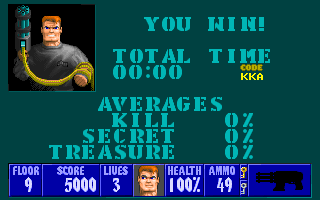
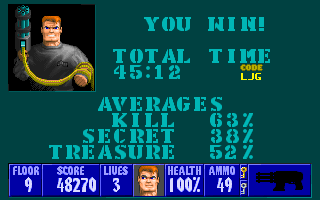
wolfenstein-3d: main - real You Win! totals, lenses, playbook (80 shots)
victory_win now pokes the per-floor tally table at 44C56 (macro E1RATIOS):
45:12, kill 63%, secret 38%, treasure 52%, score 48270. Lens documents index
the 16 new shots (face stage table, difficulty faces, death and restart);
findings: the 00:00 fix, lives kept under tedlevel. Playbook: HANSFIGHT/HF
recipe, RAM 44C56, tools/fightscan.py. Verified 80/80 from an empty cache.

Claude-Session: https://claude.ai/code/session_011YfKeixHREUUGtFaZ5pyP9

diff --git a/games/dos/wolfenstein-3d/tools/fightscan.py b/games/dos/wolfenstein-3d/tools/fightscan.py
@@ -1,0 +1,23 @@
+"""Fight scan: play PREFIX (flat route), then repeat CYCLE tokens N times; log health/ammo/lives/score per cycle
+and save one PNG per cycle (frame k = route `PREFIX,CYCLE*k,!` with CYCLE as a macro). usage: fightscan.py OUTDIR "PREFIX" "CYCLE" N"""
+import sys, os
+sys.path.insert(0, "/home/user/game-hacking/tools")
+import emu as E
+out, prefix, cycle, n = sys.argv[1], sys.argv[2], sys.argv[3], int(sys.argv[4])
+os.makedirs(out, exist_ok=True)
+game = E.Game("dos/wolfenstein-3d")
+emu, rest, full = E.start(game, prefix)
+E.play(emu, game, rest)
+ctoks = E.expand(game, E.split(cycle))
+def rd(a, n=2):
+    return int.from_bytes(bytes(emu.peek(a, n)), "little")
+log = []
+for k in range(n + 1):
+    if k:
+        E.play(emu, game, ctoks)
+    h, am, lv, sc = rd(0x44924), rd(0x44926), rd(0x44922), rd(0x4491A, 4)
+    p = os.path.join(out, "%03d.png" % k)
+    emu.screen_png(p)
+    log.append("%03d health=%d ammo=%d lives=%d score=%d map=%d" % (k, h, am, lv, sc, rd(0x44914)))
+open(os.path.join(out, "log.txt"), "w").write("\n".join(log) + "\n")
+print("\n".join(log))

diff --git a/games/dos/wolfenstein-3d/design/systems.md b/games/dos/wolfenstein-3d/design/systems.md
@@ -27,11 +27,11 @@ matter only within a floor (keys) or until the next pickup (health) (source: gam
 | Player verbs | Use (doors, pushwalls, switch) | Space opens the door ahead, pushes a secret wall, flips the elevator switch | Space | door opens in about 60 frames; pushwall slides 2 tiles in about 256 frames (verified) | 3.4 | `11_door_open`, `21_pushwall`, `elevator` | shown |
 | Player verbs | Weapon select | Number keys pick any weapon already owned | 1-4 | knife, pistol, machine gun, chain gun (verified) | 3.1 | `hud`, `weapon_knife` | shown |
 | Characters and progression | Score and extra lives | Points for kills and treasure; an extra life every 40000 points | none | guard 100, officer 400, mutant 700, Hans Grosse 5000, cross 100 (verified: score on the status bar); extra life at 40000 (RAM) | 3.2 | `15_guard_dead`, `enemy_officer_dies`, `enemy_mutant_dies`, `e1m9_exit`, `treasure_pickup` | shown |
-| Characters and progression | Weapons carried | The best weapon found stays for the rest of the game (until death) | walk over it | start: knife and pistol; machine gun and chain gun found on floors (verified: `22_secret_room`, `23_machine_gun`) | 3.1 | `23_machine_gun` | shown |
+| Characters and progression | Weapons carried | The best weapon found stays for the rest of the game (until death) | walk over it | start: knife and pistol; machine gun and chain gun found on floors (verified: `22_secret_room`, `23_machine_gun`) | 3.1 | `23_machine_gun`, `chaingun_floor`, `chaingun_grin` | shown |
 | Resources and economy | Ammunition | One shared bullet count for pistol, machine gun and chain gun, cap 99 | clips from the floor and from dead guards | start 8; clip from a guard +4 (verified: ammo 0 to 4, `20_clip`); cheat 99 (verified) | 3.1 | `20_clip`, `hud` | shown |
-| Resources and economy | Health | 0-100%; food and first aid restore it, not taken at 100% | walk over items | start 100% (verified); first aid kits left lying at 100% (verified: `22_secret_room`) | 3.3 | `22_secret_room`, `damage_flash` | shown |
+| Resources and economy | Health | 0-100%; food and first aid restore it, not taken at 100% | walk over items | start 100% (verified); first aid kits left lying at 100% (verified: `22_secret_room`) | 3.3 | `22_secret_room`, `damage_flash`, `face_100`, `face_1` | shown |
 | Resources and economy | Treasure | Crosses, chalices, chests and crowns: points and the treasure ratio | walk over | cross 100 (verified); others: source (chalice 500, chest 1000, crown 5000) | 3.2 | `treasure_room`, `treasure_pickup` | shown |
-| Conflict | Hits and damage | Every shot is a roll; damage falls with distance; a hit flashes the screen red | none | guard needed 3-4 pistol shots, the second guard 2 (verified); Hans Grosse died to about 50 chain-gun bullets (verified: ammo 99 to 49) | 3.3 | `17_guard2_hit`, `damage_flash`, `boss_hans_hit` | shown |
+| Conflict | Hits and damage | Every shot is a roll; damage falls with distance; a hit flashes the screen red | none | guard needed 3-4 pistol shots, the second guard 2 (verified); Hans Grosse died to about 50 chain-gun bullets (verified: ammo 99 to 49); Hans at 6+ tiles took B.J. from 100% to 0% in 9 hits of 1-21 points (RAM: 100, 80, 79, 69, 60, 49, 43, 34, 21, 6, 1, 0) | 3.3 | `17_guard2_hit`, `damage_flash`, `boss_hans_hit`, `face_80`, `face_34` | shown |
 | Conflict | Death of an enemy | A killed enemy falls, leaves a body and, for guards and SS, a clip or weapon | none | (verified: `18_guard2_falls`, `20_clip`) | 3.2 | `18_guard2_falls`, `enemy_mutant_dies`, `enemy_officer_dies` | shown |
 | Opponents | Regular enemies | Guard, dog, SS, officer, mutant: stand or patrol until they see or hear the player, then attack | none | 5 kinds (verified: map data) | [content.md](content.md) 3 | `13_hall_guard`, `enemy_dogs`, `enemy_ss`, `enemy_mutant_fire`, `enemy_guard_fires` | shown |
 | Opponents | Alerting | Gunfire is heard through open space; enemies behind closed doors stay unaware | none | a teleported player was ignored until he shot the boss (verified: `boss_otto` route) | 3.3 | `boss_otto`, `enemy_ss` | shown |
@@ -46,10 +46,10 @@ matter only within a floor (keys) or until the next pickup (health) (source: gam
 | Goals and gating | Episode end | After the boss, the exit tile starts the run out of the castle, the "You Win!" screen and the end text | walk | (verified) | 3.5 | `victory_run`, `victory_win`, `episode_end_text`, `episode_end_text_2` | shown |
 | Goals and gating | Floor tally | Bonus for beating par time, plus ratios of kills, secrets and treasure | key to continue | bonus 500 points per second under par (computed: 43000 for 4 s against 1:30); 0 over par (verified) | 3.5 | `tally_floor1` | shown |
 | Chance | Random hits | Hits, damage and enemy shots are rolled; drops are fixed | none | guards fell after 2 to 4 pistol shots (verified) | 3.3 | `14_guard_fire` | shown |
-| Failure and recovery | Death and lives | At 0% health the view flashes red and dissolves; a life is lost and the floor restarts | none | 3 lives at the start (verified) | 3.7 | `damage_flash`, `death_fizzle` | shown |
+| Failure and recovery | Death and lives | At 0% health the view flashes red and dissolves; a life is lost and the floor restarts | none | 3 lives at the start (verified); killed by Hans, floor 9 restarts with pistol, 8 ammo, 100% (verified: `death_restart`) | 3.7 | `damage_flash`, `death_fizzle`, `death_by_hans`, `death_by_hans_red`, `death_restart` | shown |
 | Failure and recovery | Out of lives | No game-over screen: the High Scores table, with name entry when the score qualifies | type a name, Enter | entry at 12650 above the 10000 of the id staff (verified) | 3.7 | `highscore_entry`, `highscore_ryz` | shown |
 | Saving and sessions | Save and load | Save anywhere from the in-game Options menu, 10 named slots | Esc, Save Game, type a name | (verified) | 3.8 | `28_save_slots`, `29_save_name`, `menu_load` | shown |
-| Pacing and difficulty | Skill levels | Four skills decide which enemies appear and how hard they hit | menu | E1M1 has 20 enemies at "Bring 'em on!" (verified: map data) | 3.9 | `menu_difficulty` | shown |
+| Pacing and difficulty | Skill levels | Four skills decide which enemies appear and how hard they hit | menu | E1M1 has 20 enemies at "Bring 'em on!" (verified: map data) | 3.9 | `menu_difficulty`, `menu_difficulty_daddy`, `menu_difficulty_hurt`, `menu_difficulty_death` | shown |
 | Pacing and difficulty | Cheats and debug | M+L+I gives full health, ammo, keys and weapons; the goobers debug keys give god mode, warp, coordinates | M+L+I; Tab+G/W/F | (verified) | 3.6 | `cheat_mli`, `debug_on`, `debug_god`, `debug_warp`, `debug_coords` | shown |
 | Pacing and difficulty | Attract mode | Title, credits, high scores and a recorded demo loop until a key is pressed | any key | demo on floor 38 (E4M8) (verified) | 3.10 | `demo`, `credits_id`, `high_scores` | shown |
 
@@ -73,6 +73,15 @@ Shots hit by chance; the screen flashes red when the player is hit (verified: `d
 fired at it (verified: `boss_otto` and `boss_schabbs` routes) (inferred: the boss had not been told the player's
 area was connected to his).
 
+A real fight without god mode (verified: `face_100` to `death_by_hans`, route macro `HANSFIGHT` + `HF*N`): on
+E1M9 the door to Hans Grosse opened from 1 tile, the player backed 5.6 tiles down the corridor and fired; Hans
+woke, walked out and fired from 6-20 tiles while the player backed away firing bursts. Health went 100, 80,
+79, 69, 60, 49, 43, 34, 21, 6, 1, 0 (RAM, health at 44924): hits of 1 to 21 points at that range, never more,
+and the chain gun at 99 bullets did not bring him down. Opened at point blank (the `boss_hans` route without
+god mode) he killed the player within 60 frames of the door opening (RAM: health 0) (inferred: damage grows
+sharply below 2 tiles). Picking up a chain gun makes B.J. grin on the status bar for a moment (verified:
+`chaingun_grin`) and switches to it (ammo +6: 8 to 14) (verified).
+
 ### 3.4 Doors, locks and secrets
 Doors slide open with Space and close again after about 5 seconds (verified). Gold and silver doors need their
 key (verified: `door_gold` without a key, opened on E1M9 with one). Pushwalls are ordinary-looking walls
@@ -85,6 +94,11 @@ secrets = 40%, 9 of 23 treasure = 39%, `tally_floor1`; integer percentages, roun
 the exit tile behind the boss's gold door starts the episode end: B.J. runs out (`victory_run`), "You Win!"
 with total time and average ratios and a code (`victory_win`), then two pages of end text
 (`episode_end_text`, `episode_end_text_2`) (verified).
+"You Win!" adds the time and averages the three ratios of floors 1-8 from a table of 8 records of 10 bytes
+at 44C56 (kill, secret, treasure as 2-byte percentages, time as 4-byte seconds), written by each floor's tally
+(RAM: the `tally_floor1` values 60/40/39/107 s appeared there). Floor 9 and the secret floor do not count; a
+floor skipped by warping counts as 0 (verified: 00:00 and 0% before; with the table set to 8 plausible floors,
+`victory_win` shows 45:12, 63%, 38%, 52% and the code LJG; the code changes with the values).
 
 ### 3.6 Cheats and debug keys
 M+L+I (held together): 100% health, 99 ammunition, both keys, all weapons, with a warning that the score is
@@ -103,7 +117,9 @@ Ten slots, each named by the player, saved from the Options menu in play (verifi
 
 ### 3.9 Difficulty
 Four skills: "Can I play, Daddy?", "Don't hurt me.", "Bring 'em on!", "I am Death incarnate!" (verified:
-`menu_difficulty`). Each enemy on a map is marked for the lowest skill it appears on (verified: map data).
+`menu_difficulty`, `menu_difficulty_daddy`, `menu_difficulty_hurt`, `menu_difficulty_death`): the face beside
+the list follows the cursor: B.J. grey-haired with a pacifier, plain, the confident default, scowling with red
+eyes. Each enemy on a map is marked for the lowest skill it appears on (verified: map data).
 
 ### 3.10 Attract mode
 Title, id credits, High Scores, a recorded demo (verified: `title_screen`, `credits_id`, `high_scores`, `demo`).
@@ -115,6 +131,6 @@ gate the way to the elevator and, on boss floors, the exit. The tally rewards sp
 thoroughness (ratios), two goals that pull against each other.
 
 ## Open questions
-- Damage per weapon and distance, enemy hit points: not measured (source code knowledge only).
+- Damage per weapon and distance, enemy hit points: not measured (source code knowledge only); one series of Hans's hits at range in 3.3.
 - Silver key door not shown; extra-life sphere not picked up on camera.
 - Chain gun and machine gun fire rates measured only roughly.

diff --git a/games/dos/wolfenstein-3d/design/interface.md b/games/dos/wolfenstein-3d/design/interface.md
@@ -38,7 +38,7 @@ as **Observation:** with the reason, never as a fact.
 | Demo | screen | attract loop | recorded play | the play screen with a "Demo" banner | any key -> Options | none | `demo` | |
 | Options menu | menu | any key in the attract loop, Esc in play | main menu | New Game, Sound, Control, Load Game, Save Game and End Game (in play), Change View, View Scores, Back to Demo/Game, Quit | Up/Down, Enter, Esc | in-play entries added | `menu_options`, `24_ingame_menu` | **Observation:** the same menu serves both before and during a game |
 | Episode select | menu | New Game -> difficulty | choose one of six episodes | six pictures and titles | Up/Down, Enter | none | `menu_episodes` | |
-| Difficulty | menu | episode -> Get Psyched | choose skill | four lines, a face that changes with the cursor | Up/Down, Enter | none | `menu_difficulty` | |
+| Difficulty | menu | episode -> Get Psyched | choose skill | four lines, a face that changes with the cursor (baby B.J., plain, confident, red-eyed) | Up/Down, Enter | none | `menu_difficulty`, `menu_difficulty_daddy`, `menu_difficulty_hurt`, `menu_difficulty_death` | |
 | Get Psyched | transition | difficulty -> play | loading | banner and status bar | none | none | `09_get_psyched` | |
 | Sound | menu | Options | sound devices | effects, digitized sound, music | Enter toggles | missing devices greyed | `options_sound` | |
 | Control | menu | Options | input devices | mouse, joystick, GamePad, sensitivity, customize | Enter | missing devices greyed | `options_control` | |
@@ -46,12 +46,12 @@ as **Observation:** with the reason, never as a fact.
 | Load Game / Save Game | list | Options | ten slots | slot names or "empty" | Up/Down, Enter, typing | name field with cursor | `menu_load`, `28_save_slots`, `29_save_name`, `30_saved` | |
 | Quit prompt | prompt | Quit | confirm | joke text | Y/N | | `menu_quit` | |
 | Play view | screen | Get Psyched | the game | 3D view, weapon in hand | play keys | flashes | `e1m1_start`, `env_e2m1` | |
-| Status bar | hud element | play | state | floor, score, lives, face, health, ammo, keys, weapon | none | face looks hurt as health falls | `hud`, `15_guard_dead` | |
+| Status bar | hud element | play | state | floor, score, lives, face, health, ammo, keys, weapon | none | face looks hurt as health falls (7 stages, dead face, grin on a chain gun) | `hud`, `15_guard_dead`, `face_100`, `face_80`, `face_60`, `face_43`, `face_34`, `face_6`, `face_1`, `chaingun_grin` | |
 | In-game message box | message | cheats, debug keys | report | grey box, text | key | | `cheat_mli`, `debug_on`, `debug_god`, `debug_warp`, `debug_coords` | |
 | Floor tally | screen | elevator switch -> next floor | results | B.J., bonus, time, par, ratios | key | numbers count up | `tally_floor1` | |
 | Episode won | screen | boss floor exit -> end text | results | You Win!, total time, averages, code | key | | `victory_run`, `victory_win` | |
 | End text | screen | episode won -> High Scores | story | pages with a picture, page number | arrows page, Esc | "pg 1 of 2" | `episode_end_text`, `episode_end_text_2` | |
-| Death | transition | health 0 | losing a life | red flash, red dissolve | none | | `damage_flash`, `death_fizzle` | |
+| Death | transition | health 0 | losing a life | red flash, dead face, red dissolve, floor fades in from red | none | | `damage_flash`, `death_fizzle`, `death_by_hans`, `death_by_hans_red`, `death_restart` | |
 
 ## 3. Screen flow
 - Power-on -> sign-on -> PC-13 -> title -> credits -> High Scores -> demo -> title ... (any key: Options)
@@ -66,5 +66,20 @@ Status bar, left to right (verified: `hud`): FLOOR (number within the episode), 
 (looks around; bloodier as health drops), HEALTH in percent, AMMO, two key slots (gold above silver), the
 picture of the weapon in hand.
 
+The face (verified: one real fight against Hans Grosse, `face_100` to `death_by_hans`; faces read at 3x):
+| Health | Face | Shot |
+|---|---|---|
+| 100% | clean, looking around | `face_100` |
+| 80% | a cut on the cheek | `face_80` |
+| 60% | blood under the nose | `face_60` |
+| 43% | blood at the mouth | `face_43` |
+| 34% | blood on nose and mouth | `face_34` |
+| 6% | swollen, eyes half shut | `face_6` |
+| 1% | eyes almost shut, bloodied | `face_1`, `face_1_hans_near` |
+| 0% | dead face, mouth open | `death_by_hans` |
+| any, chain gun picked up | broad grin, for a moment | `chaingun_grin` |
+Stages change every 16 points or so (85-100, 69-84, 53-68, 37-52, 21-36, 5-20, 1-4: source, the released
+code; the frames agree). The face also turns left and right at random in every stage (verified).
+
 ## Open questions
-- The face's damage stages and the god-mode face not captured.
+- ~~The face's damage stages~~ captured 2026-11-25 (table in 4); the god-mode face not captured.

diff --git a/games/dos/wolfenstein-3d/playbook.md b/games/dos/wolfenstein-3d/playbook.md
@@ -39,7 +39,7 @@ checked). Never delete a fact that turned out wrong: strike it and say what is t
   Left Shift+Alt+Backspace in play = "Debugging keys are now available!", then Tab+G god, Tab+W warp (type the
   floor number, Enter), Tab+I free items (score 100000, lives 5: unrealistic, prefer pokes), Tab+F coordinates,
   Tab+E end the floor (tally; under `tedlevel` it quits to DOS). MLI (hold M+L+I) needs no debug mode.
-- **Sets (capture 2026-11-25):** `start` 30 shots, `main` 64 shots, both verified from an empty cache and
+- **Sets (capture 2026-11-25):** `start` 30 shots, `main` 80 shots (64 + 16 on 2026-11-25, run 2), both verified from an empty cache and
   published; routes in `shots.txt` (main lines active, `#start ` lines). Shot routes are flat macro chains
   (LEVEL/DNEW + GOD + MLI + TP), 20 s for `start`, about a minute for `main`.
 - **Recipes that worked (main):** wake a teleported boss by firing (`ctrl:12`), it ignores you otherwise;
@@ -50,6 +50,16 @@ checked). Never delete a fact that turned out wrong: strike it and say what is t
   Death/high score: `poke:44922=0000,poke:44924=0100` (no lives, 1% health) and `set:4491A=12650:4` after a shot
   wakes the hall guard; High Scores name entry 560 frames later. Tally values: `set:` kills 4493E, secrets
   4493A, treasure 4493C, time 44946 (tics) before Space on the switch.
+- **Real fight, no god mode (face stages):** `HANSFIGHT` (LEVEL:8, MLI, TP south of Hans's door at
+  (34.5,16.5) facing north, Space, back off `s:70`, `ctrl:12`) then `HF*N` (`HF` = `ctrl:4,s:3,w10`, fire while
+  backing). Health per N (RAM): 36 80, 39 69, 45 60, 46 49, 48 43, 55 34, 56 21, 57 6, 58 1, 80 0 (death),
+  90 floor restarted. Damage is random: other waits gave other series (only `s:3,w10` hit 1-4%); scan variants
+  headless with `python3 games/dos/wolfenstein-3d/tools/fightscan.py OUT "PREFIX" "CYCLE" N` (health per cycle, a PNG each) before previewing.
+  Opening Hans's door at point blank without god mode kills you within 60 frames.
+- **Real "You Win!" totals:** 8 records of 10 bytes at 44C56 (kill %, secret %, treasure % as 2 bytes, time in
+  seconds as 4), one per floor 1-8, filled by each tally; a warp leaves zeros (00:00, 0%). Macro `E1RATIOS`
+  pokes 8 plausible floors (sum 45:12, 63/38/52%); `victory_win` also sets score 43270 and next-extra 80000
+  after MLI (Hans makes it 48270, no extra life).
 - **No "Read This!"** in this build (GT/Activision 1.4): the help screens are not reachable from the menu.
 
 ## Identity
@@ -108,8 +118,9 @@ verified in RAM).
 Done 2026-11-25 (capture): `start` 30 (sign-on to Save Game), `main` 64: boot, title, credits, high scores,
 demo, all menus and options, first control, HUD, env views from all six episodes, four weapons firing,
 guard/dog/SS/officer/mutant, damage, death, high-score entry ryz, all six bosses, treasure, gold key and door,
-elevator, tally, E1 victory and end text, cheats and debug. Not shot: silver key door, food/extra life,
-secret floors, Hitler's ghosts, face damage stages.
+elevator, tally, E1 victory and end text, cheats and debug. Run 2 (2026-11-25): the other three skills,
+chain gun grin, a real Hans fight through all face stages to death and restart, real victory totals. Not shot:
+silver key door, food/extra life, secret floors, Hitler's ghosts, god-mode face.
 Reach: `LEVEL:N` + `TP:` for any enemy or room; bosses from `LEVEL:8/18/28/38/48/58` (map index).
 
 ## Strategy and walkthrough notes
@@ -152,6 +163,7 @@ Same addresses every boot with `BOOT` (DOS loads the game at the same place); wi
 | 4493A / 4493C / 4493E | 2 each | secrets / treasures / kills found | verified (secret 1, kills 3) |
 | 44940 / 44942 / 44944 | 2 each | totals (E1M1 skill 2: 5 / 23 / 20) | verified |
 | 44946 | 4 | play time in tics (70 per second) | verified |
+| 44C56 | 8 x 10 | per-floor tally records for floors 1-8: kill, secret, treasure (% each, 2 bytes), time (seconds, 4 bytes); summed by "You Win!" | verified |
 | 4687C / 46880 | 4 each | player x / y, 16.16 fixed tiles | verified |
 | 46884 / 46886 | 2 each | player tile x / y | verified |
 | 46896 | 2 | player angle, degrees, 0 east, 90 north | verified |

diff --git a/games/dos/wolfenstein-3d/design/content.md b/games/dos/wolfenstein-3d/design/content.md
@@ -48,7 +48,7 @@ each visual family. A complete table belongs in its own document (items.md, enem
 | SS | E1M2 on | blue uniform, machine gun | bursts of fire | `enemy_ss`, `weapon_machine_gun` |
 | Officer | E5M1 and others | white uniform | fast, quick to shoot; 400 points | `weapon_chain_gun`, `enemy_officer_dies` |
 | Mutant | Episode 2 | green, a gun in the chest | silent, fires from the chest; 700 points | `enemy_mutant_fire`, `enemy_mutant_dies`, `weapon_knife` |
-| Hans Grosse (boss) | E1M9 | blue giant with two chain guns | guards the gold key; 5000 points | `boss_hans`, `boss_hans_hit` |
+| Hans Grosse (boss) | E1M9 | blue giant with two chain guns | guards the gold key; 5000 points; outguns a player at full health | `boss_hans`, `boss_hans_hit`, `face_100`, `face_1_hans_near`, `death_by_hans` |
 | Dr. Schabbs (boss) | E2M9 | blood-spattered white coat | throws syringes, among mutants | `boss_schabbs`, `boss_schabbs_walks` |
 | Hitler (boss) | E3M9 | mech suit with four chain guns | fires from the suit (fake ghosts not shown) | `boss_hitler` |
 | Otto Giftmacher (boss) | E4M9 | white coat, rocket launcher | fires rockets | `boss_otto` |
@@ -62,7 +62,7 @@ each visual family. A complete table belongs in its own document (items.md, enem
 | Knife | weapon | start | close stab, no ammunition | `weapon_knife` |
 | Pistol | weapon | start | single shots | `weapon_pistol`, `14_guard_fire` |
 | Machine gun | weapon | floors, SS | held fire | `23_machine_gun`, `weapon_machine_gun` |
-| Chain gun | weapon | floors (MLI here) | fast held fire | `weapon_chain_gun`, `hud` |
+| Chain gun | weapon | floors (MLI here) | fast held fire; picking one up makes B.J. grin | `weapon_chain_gun`, `hud`, `chaingun_floor`, `chaingun_grin` |
 | Ammo clip | ammunition | floors, dead guards | +4 when dropped by a guard (verified) | `20_clip` |
 | First aid | health | floors | restores health, left at 100% | `22_secret_room` |
 | Gold key | key | floors, bosses | opens gold doors | `key_gold`, `key_gold_taken` |

diff --git a/games/dos/wolfenstein-3d/design/findings.md b/games/dos/wolfenstein-3d/design/findings.md
@@ -25,6 +25,9 @@ connected to theirs, and the connection is updated when doors open, not when the
 **Intended:** the totals add up the tallies of finished floors; a warp skips them.
 **Confidence:** (inferred).
 **Impact:** none in normal play.
+**Fix for the set (2026-11-25):** the totals come from 8 records at 44C56 (kill, secret, treasure %, time in
+seconds; 10 bytes each), one per floor 1-8, written by each tally. `victory_win` now pokes 8 plausible floors
+there (macro `E1RATIOS`) before the exit: 45:12, kill 63%, secret 38%, treasure 52% (verified, RAM).
 
 ## No game-over screen
 **Behavior:** out of lives, the game goes straight from the red death dissolve to the High Scores
@@ -32,3 +35,11 @@ connected to theirs, and the connection is updated when doors open, not when the
 **Intended:** yes.
 **Confidence:** (verified).
 **Impact:** none.
+
+## Lives not lost on a death under `tedlevel`
+**Behavior:** started with `wolf3d goobers tedlevel 8 normal` (macro `LEVEL:8`) and killed by Hans Grosse, the
+floor restarted with health 100%, the pistol and 8 bullets, but lives stayed at 3 on the status bar and in RAM
+(44922) (`death_restart`, route `HANSFIGHT,HF*90`).
+**Intended:** likely: `tedlevel` is the map editor's test start, where a death should only restart the map.
+**Confidence:** (verified) the behaviour; (inferred) the reason.
+**Impact:** none in normal play; the lives counter of debug-started shots is not a real count.
